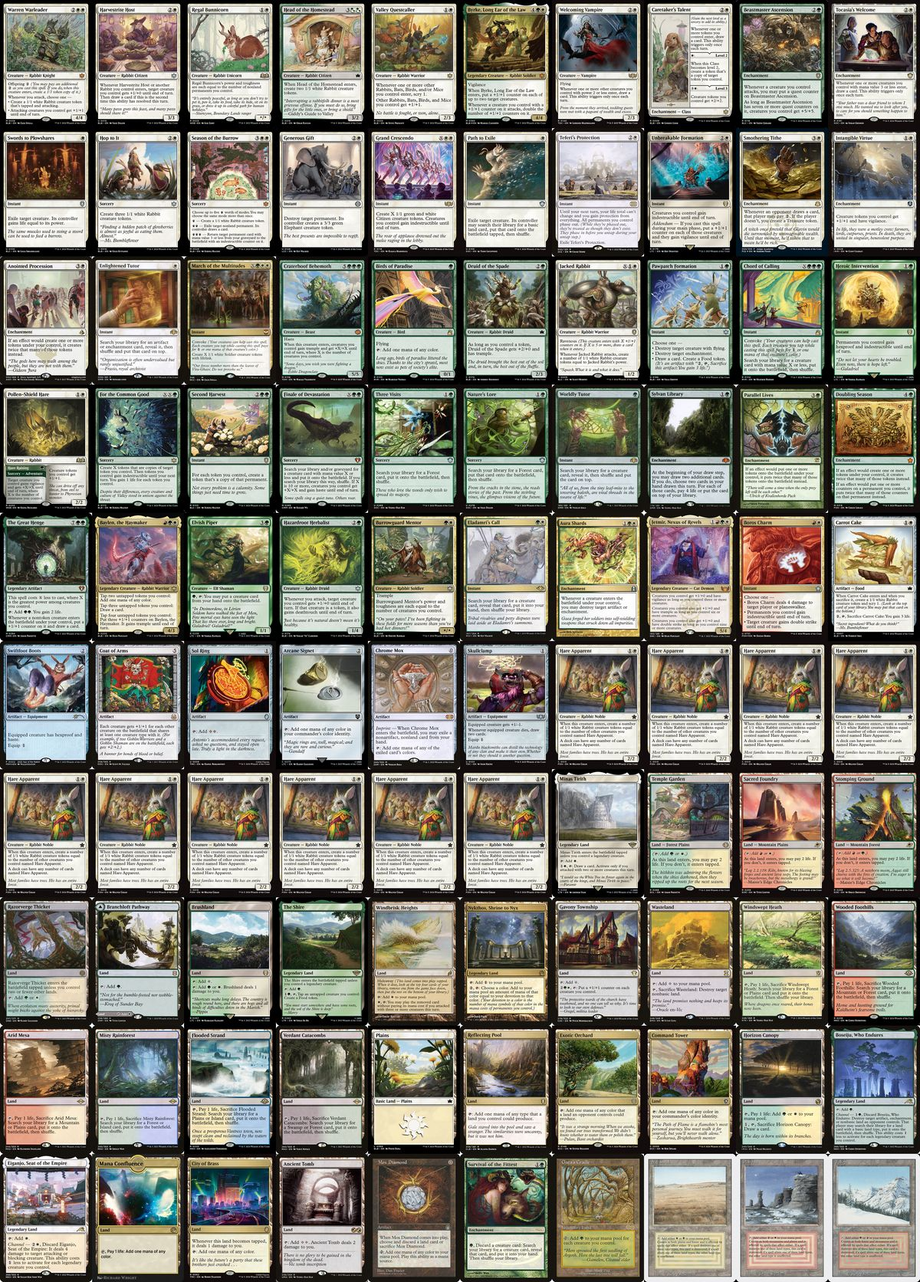
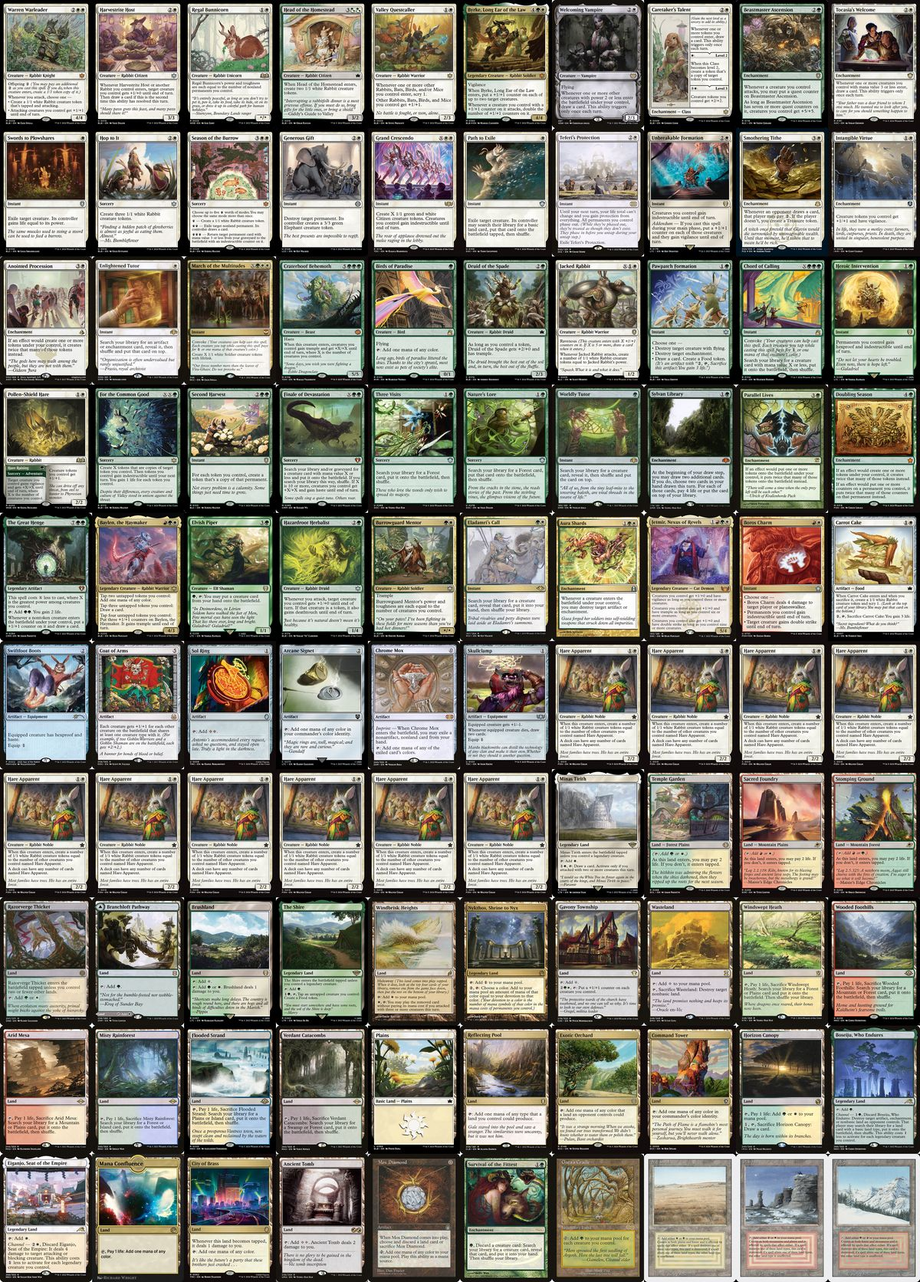
Welcoming Vampire → VOW printing

Changed region(s): [[0.5858, 0.0, 0.7092, 0.0933]]

diff --git a/theme_analysis.md b/theme_analysis.md
@@ -32,7 +32,7 @@
 | Elvish Piper | Both | [🔗](https://scryfall.com/card/ltc/239/elvish-piper) | ❌ | ❌ | ✅ | 5 | The backstage manager who sneaks the headliner in through the side door. Tap her and any creature in your hand walks onto the stage for free — Craterhoof, Jetmir, whoever's next on the setlist. |
 | Harvestrite Host | Both | [🔗](https://scryfall.com/card/blb/15/harvestrite-host) | ✅ | ✅ | ✅ | 9 | Literally "the host." Every time a new rabbit arrives, someone gets pumped up, and the moment a second guest hops through the door this turn, she hands out a party favor (a card). Rabbits gathered around a harvest table loaded with food, lanterns glowing overhead. Peak celebration energy. |
 | Regal Bunnicorn | Both | [🔗](https://scryfall.com/card/woe/25/regal-bunnicorn) | ✅ | ✅ | ✅ | 9 | The fancy guest who shows up looking better every time someone else arrives. Power and toughness equal to your nonland permanents — at a party this size, she's enormous. |
-| Welcoming Vampire | Both | [🔗](https://scryfall.com/card/tdc/140/welcoming-vampire) | ❌ | ❌ | ✅ | 7 | The gracious host at the door who greets every new face with a smile and a card. Whenever a creature with power 2 or less enters, she draws — and in a deck full of 1/1 rabbits, the welcome never ends. Flying lets her keep an eye on the whole party from above. |
+| Welcoming Vampire | Both | [🔗](https://scryfall.com/card/vow/287/welcoming-vampire) | ❌ | ❌ | ✅ | 7 | The gracious host at the door who greets every new face with a smile and a card. Whenever a creature with power 2 or less enters, she draws — and in a deck full of 1/1 rabbits, the welcome never ends. Flying lets her keep an eye on the whole party from above. |
 | Head of the Homestead | Both | [🔗](https://scryfall.com/card/blb/216/head-of-the-homestead) | ✅ | ✅ | ✅ | 9 | Opens the front door and immediately two bunnies show up behind her. The Head of the Homestead is the one making sure everyone has a place to sit and a carrot to munch. |
 | Valley Questcaller | Both | [🔗](https://scryfall.com/card/blb/36/valley-questcaller) | ✅ | ✅ | ✅ | 9 | The hype-rabbit shouting "let's go!" from the doorway. Every newcomer enters the party pumped with a static +1/+1 lord effect, and each arrival triggers a scry to plan the next wave of guests. |
 | Byrke, Long Ear of the Law | Both | [🔗](https://scryfall.com/card/blb/380/byrke-long-ear-of-the-law) | ✅ | ✅ | ✅ | 8 | The sheriff who surprisingly knows how to double down at the after-party. Places counters on arrival and then doubles every counter on every creature that swings. Byrke is the reason the party escalates. |
